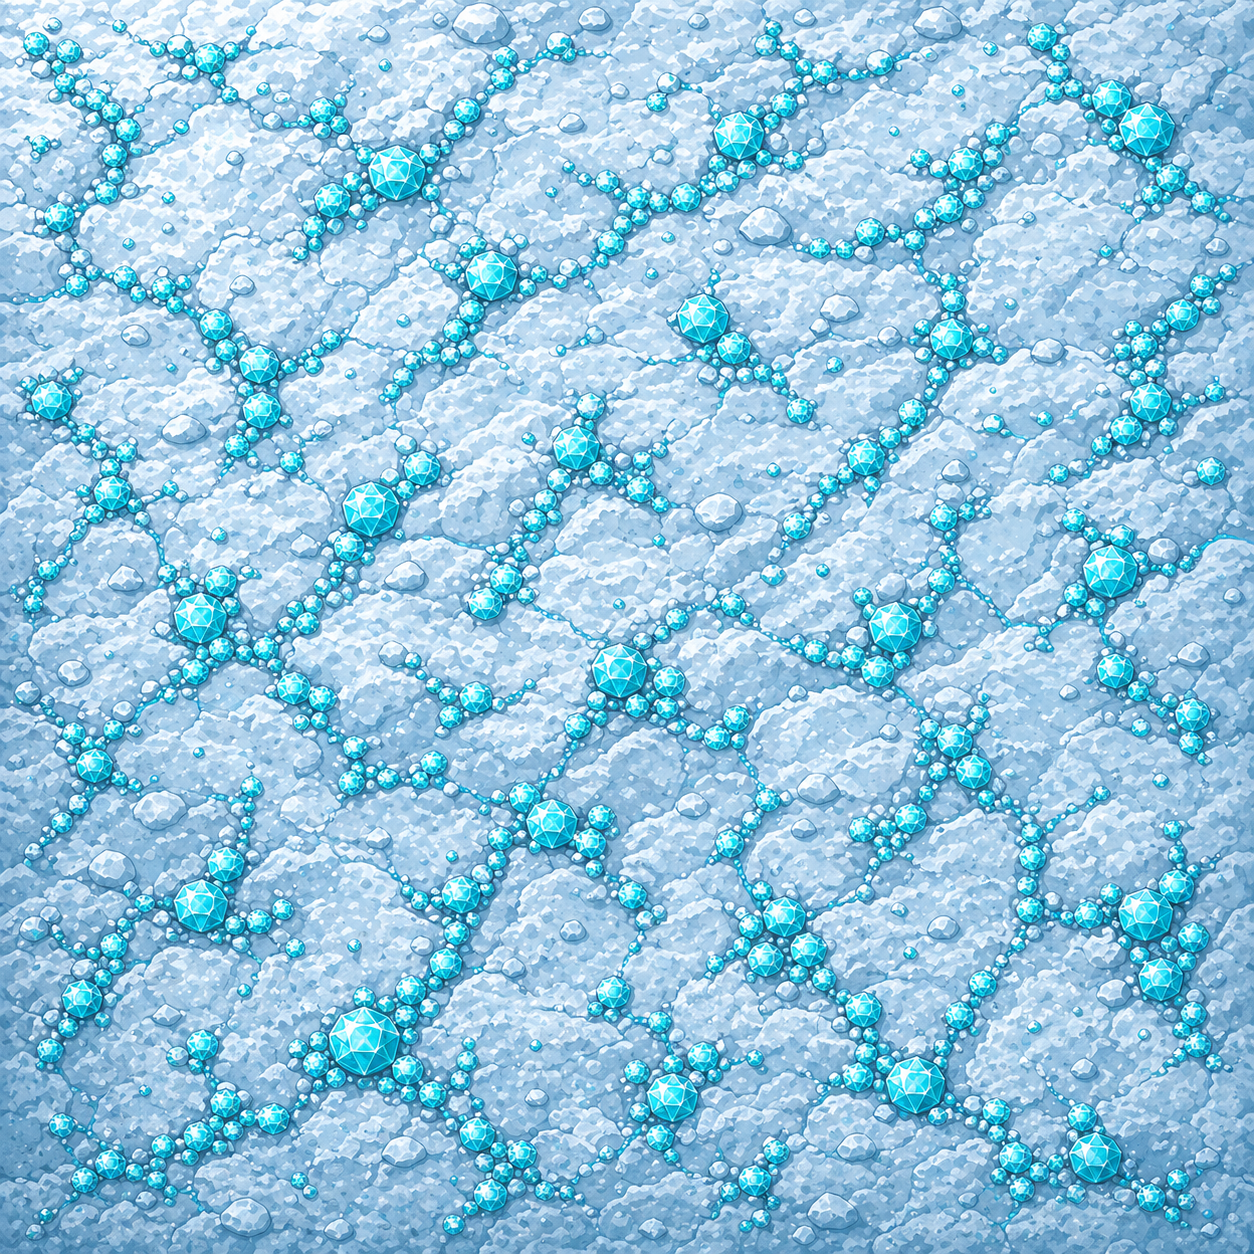
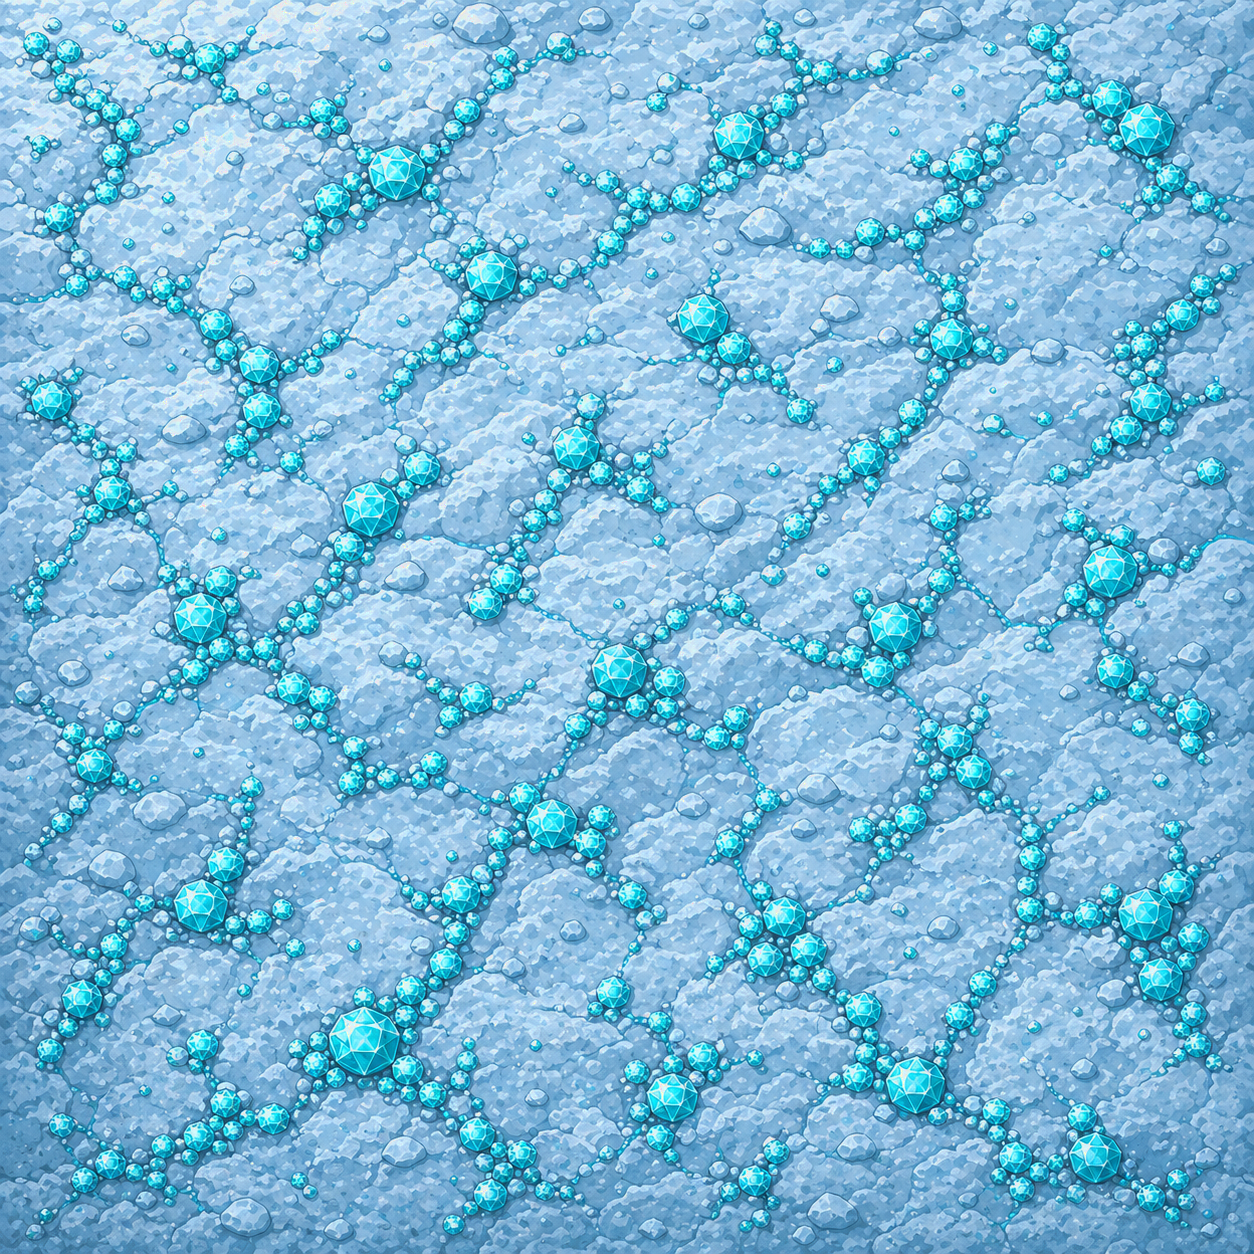
feat: update depth background textures and add tinting logic in MineScene

diff --git a/src/scenes/MineScene.ts b/src/scenes/MineScene.ts
@@ -1182,7 +1182,9 @@ export class MineScene extends Phaser.Scene {
     this.flowOreIcon.setTexture(getMapOreIconKey(state.activeMineId));
 
     for (const section of this.depthSections) {
-      section.background.setTexture(getDepthBackgroundKey(section.depthGroup, state.activeMineId));
+      section.background
+        .setTexture(getDepthBackgroundKey(section.depthGroup, state.activeMineId))
+        .setTint(getDepthBackgroundTint(section.depthGroup, state.activeMineId));
     }
 
     for (let shaftId = 1; shaftId <= this.totalMineShafts; shaftId += 1) {
@@ -1208,6 +1210,7 @@ export class MineScene extends Phaser.Scene {
       const background = this.add
         .image(GAME_WIDTH / 2, topY + height / 2, getDepthBackgroundKey(depthGroup, activeMineId))
         .setDisplaySize(DEPTH_SECTION_WIDTH, height)
+        .setTint(getDepthBackgroundTint(depthGroup, activeMineId))
         .setVisible(depthGroup === 1);
 
       this.depthSections.push({
@@ -5396,6 +5399,14 @@ function getDepthBackgroundKey(depthGroup: number, mineId: MineId): string {
     default:
       return getMineTextureKey(mineId, "background-underground-depth-6");
   }
+}
+
+function getDepthBackgroundTint(depthGroup: number, mineId: MineId): number {
+  if (mineId !== DEFAULT_ACTIVE_MINE_ID && mineId !== "emerald" && depthGroup >= 2 && depthGroup <= 6) {
+    return 0xd8d8d8;
+  }
+
+  return 0xffffff;
 }
 
 function formatSpeedMultiplier(value: number): string {
